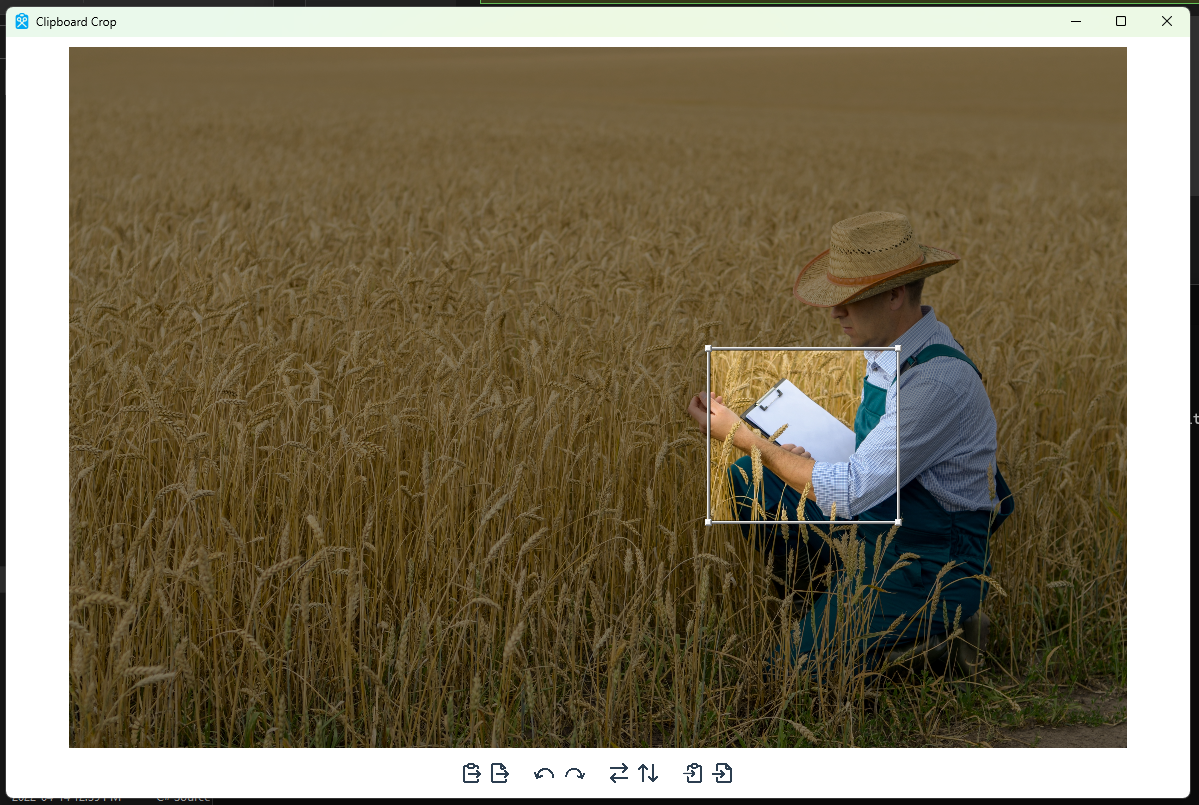
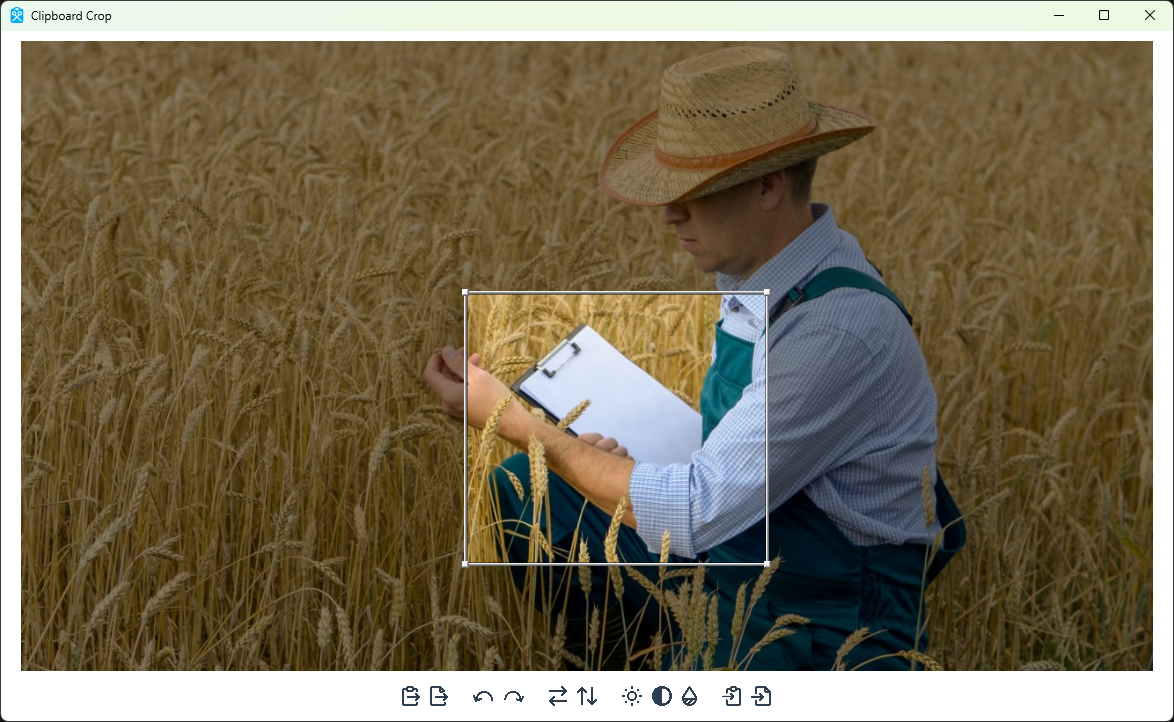
Update README

diff --git a/README.md b/README.md
@@ -1,15 +1,20 @@
 ![Farmer in a field next to crops with a clipboard](images/farmer.jpg)
+
 # Clipboard Crop
 
 **Clipboard Crop** is a Windows application written with .NET that allows you to easily crop images in your clipboard and to save them back to your clipboard.
 
 ## Main Features
+
 * Loading an image from the clipboard or a file
 * Cropping, rotating, and flipping the image
+* Changing the brighness, contrast, and saturation
 * Saving the image to the clipboard or a file
 
 ## Image
+
 [<img src="images/demo.png" width="500">](images/demo.png)
 
 ## Building
+
 Clipboard Crop is built using Visual Studio with .NET as well as NSIS. To produce a publishable version of the app, publish the main project in Visual Studio. Note this will automatically run `makensis NSIS.nsi` to create the installer.
